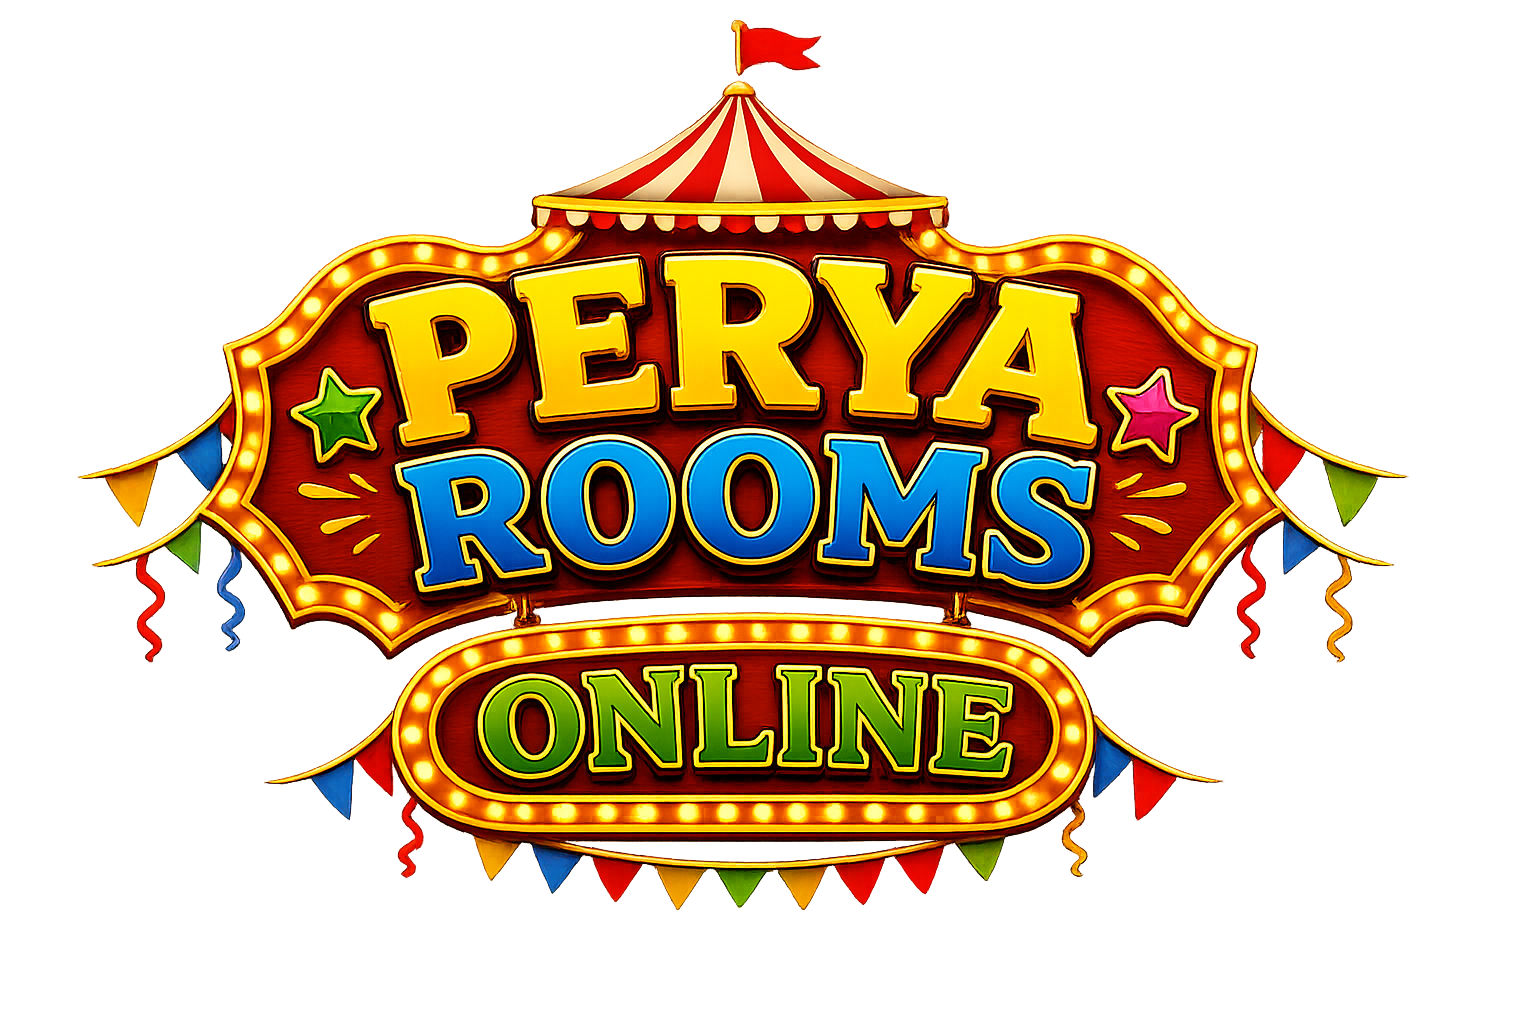
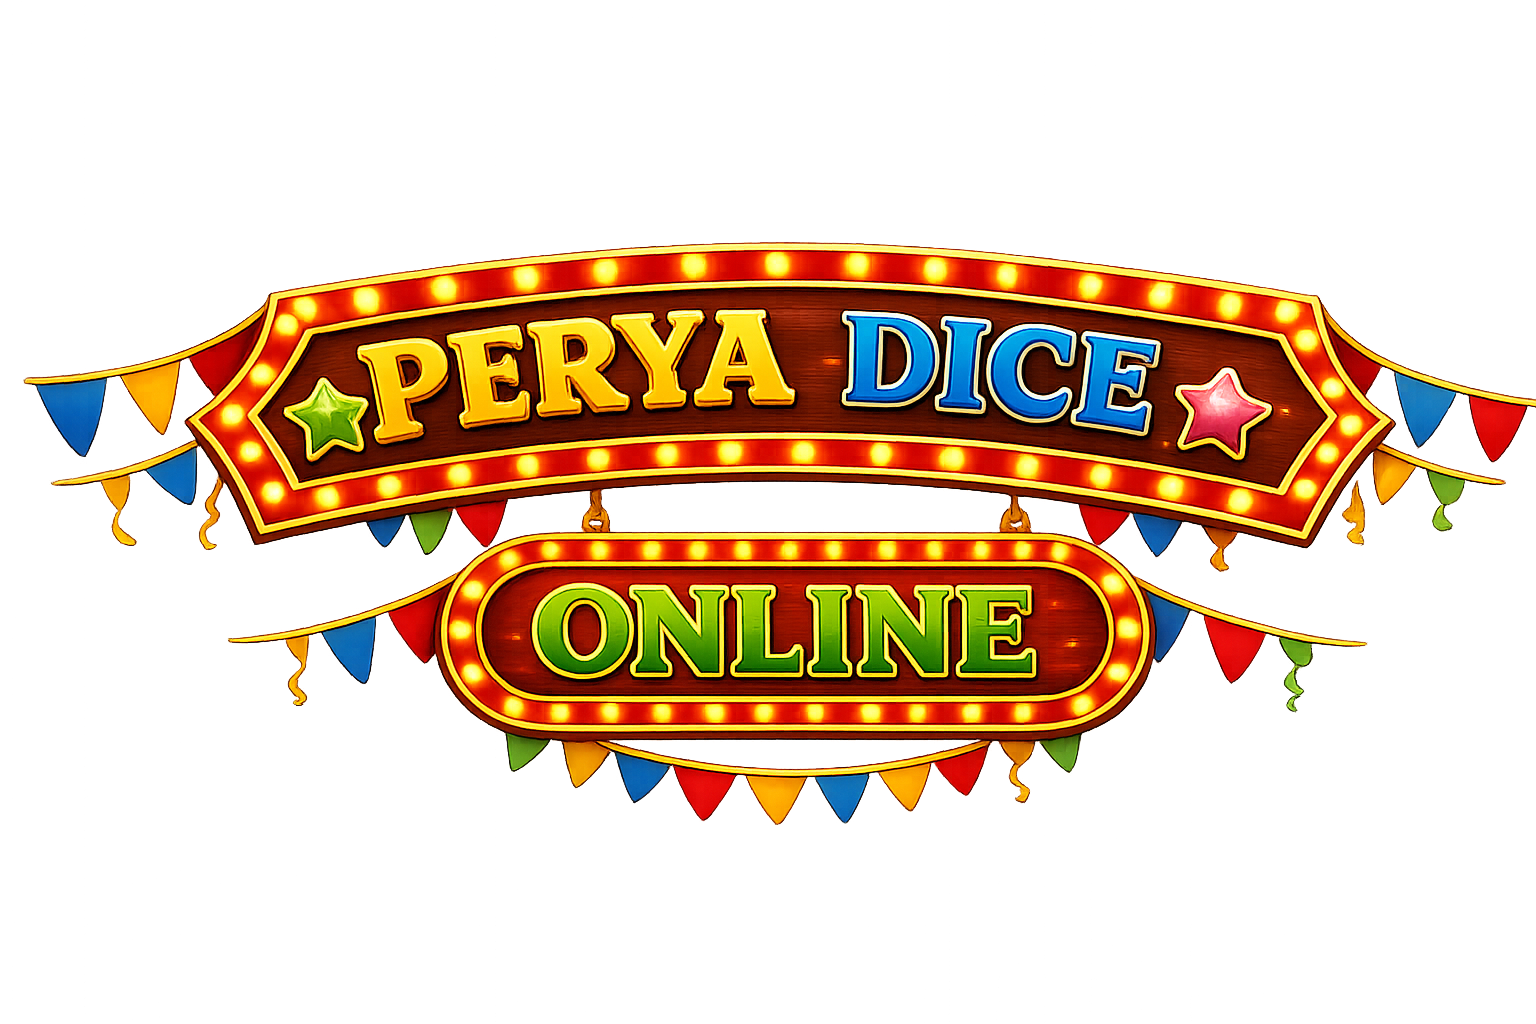
Update website

diff --git a/acclogin_perya-rooms.html b/acclogin_perya-rooms.html
@@ -3,7 +3,7 @@
 <head>
     <meta charset="UTF-8">
     <meta name="viewport" content="width=device-width, initial-scale=1.0">
-    <title>Creator Account - PERYA ROOMS</title>
+    <title>Creator Account - PERYA DICE</title>
     <link rel="icon" type="image/png" href="favicon.png">
     <link rel="stylesheet" href="style.css">
     <style>
@@ -78,14 +78,14 @@
 </head>
 <body>
     <header class="siteHeader">
-        <img class="logo" src="images/PERYA.png" alt="PERYA ROOMS" decoding="async" fetchpriority="high">
+        <img class="logo" src="images/PERYA.png" alt="PERYA DICE" decoding="async" fetchpriority="high">
     </header>
 
     <main class="accountLoginPage">
         <section class="card accountCard accountLoginCard">
             <div id="accountLoginSignedOut" class="accountLoginSignedOut">
                 <h1>Creator Account</h1>
-                <p>Sign in with your Google account to manage your Perya Rooms creator account.</p>
+                <p>Sign in with your Google account to manage your Perya Dice creator account.</p>
 
                 <button id="accountLoginGoogleButton" class="googleButton" type="button">
                     <svg class="googleIcon" viewBox="0 0 48 48" aria-hidden="true">
@@ -111,7 +111,7 @@
             <p id="accountLoginStatus" class="accountLoginStatus" aria-live="polite"></p>
 
             <div class="accountLoginBack">
-                <a href="index.html">← Back to Perya Rooms</a>
+                <a href="index.html">← Back to Perya Dice</a>
             </div>
         </section>
     </main>

diff --git a/index.html b/index.html
@@ -488,11 +488,11 @@
         </section>
 
         <div id="hostSettings" class="hostSettings" hidden>
-            <div class="hostWebsiteBrand diceSkinHeaderBar" aria-label="Perya Rooms website">
+            <div class="hostWebsiteBrand diceSkinHeaderBar" aria-label="Perya Dice website">
                 <div id="roomGameBrand"
                      class="diceSkinBrandText"
                      aria-live="polite">
-                    <strong id="roomGameBrandPrimary">🌐 perya-rooms.com</strong>
+                    <strong id="roomGameBrandPrimary">🌐 perya-dice.com</strong>
                 </div>
 
                 <strong id="roomGameBrandSecondary"
@@ -698,7 +698,7 @@
         </section>
 
         <section class="card about guestAbout">
-            <h2>Welcome to Perya Rooms Online!</h2>
+            <h2>Welcome to Perya Dice Online!</h2>
             <p>Enjoy a <strong>100% ad-free</strong> online dice roller.</p>
             <p>Share your Room ID so other people can watch every roll live.</p>
         </section>

diff --git a/build.js b/build.js
@@ -164,7 +164,7 @@ fs.rmSync(tempCSS, {
 async function build() {
 console.log("");
 console.log("========================================");
-console.log("       PERYA ROOMS ONLINE BUILD");
+console.log("       PERYA DICE ONLINE BUILD");
 console.log("========================================");
 console.log("");
 
